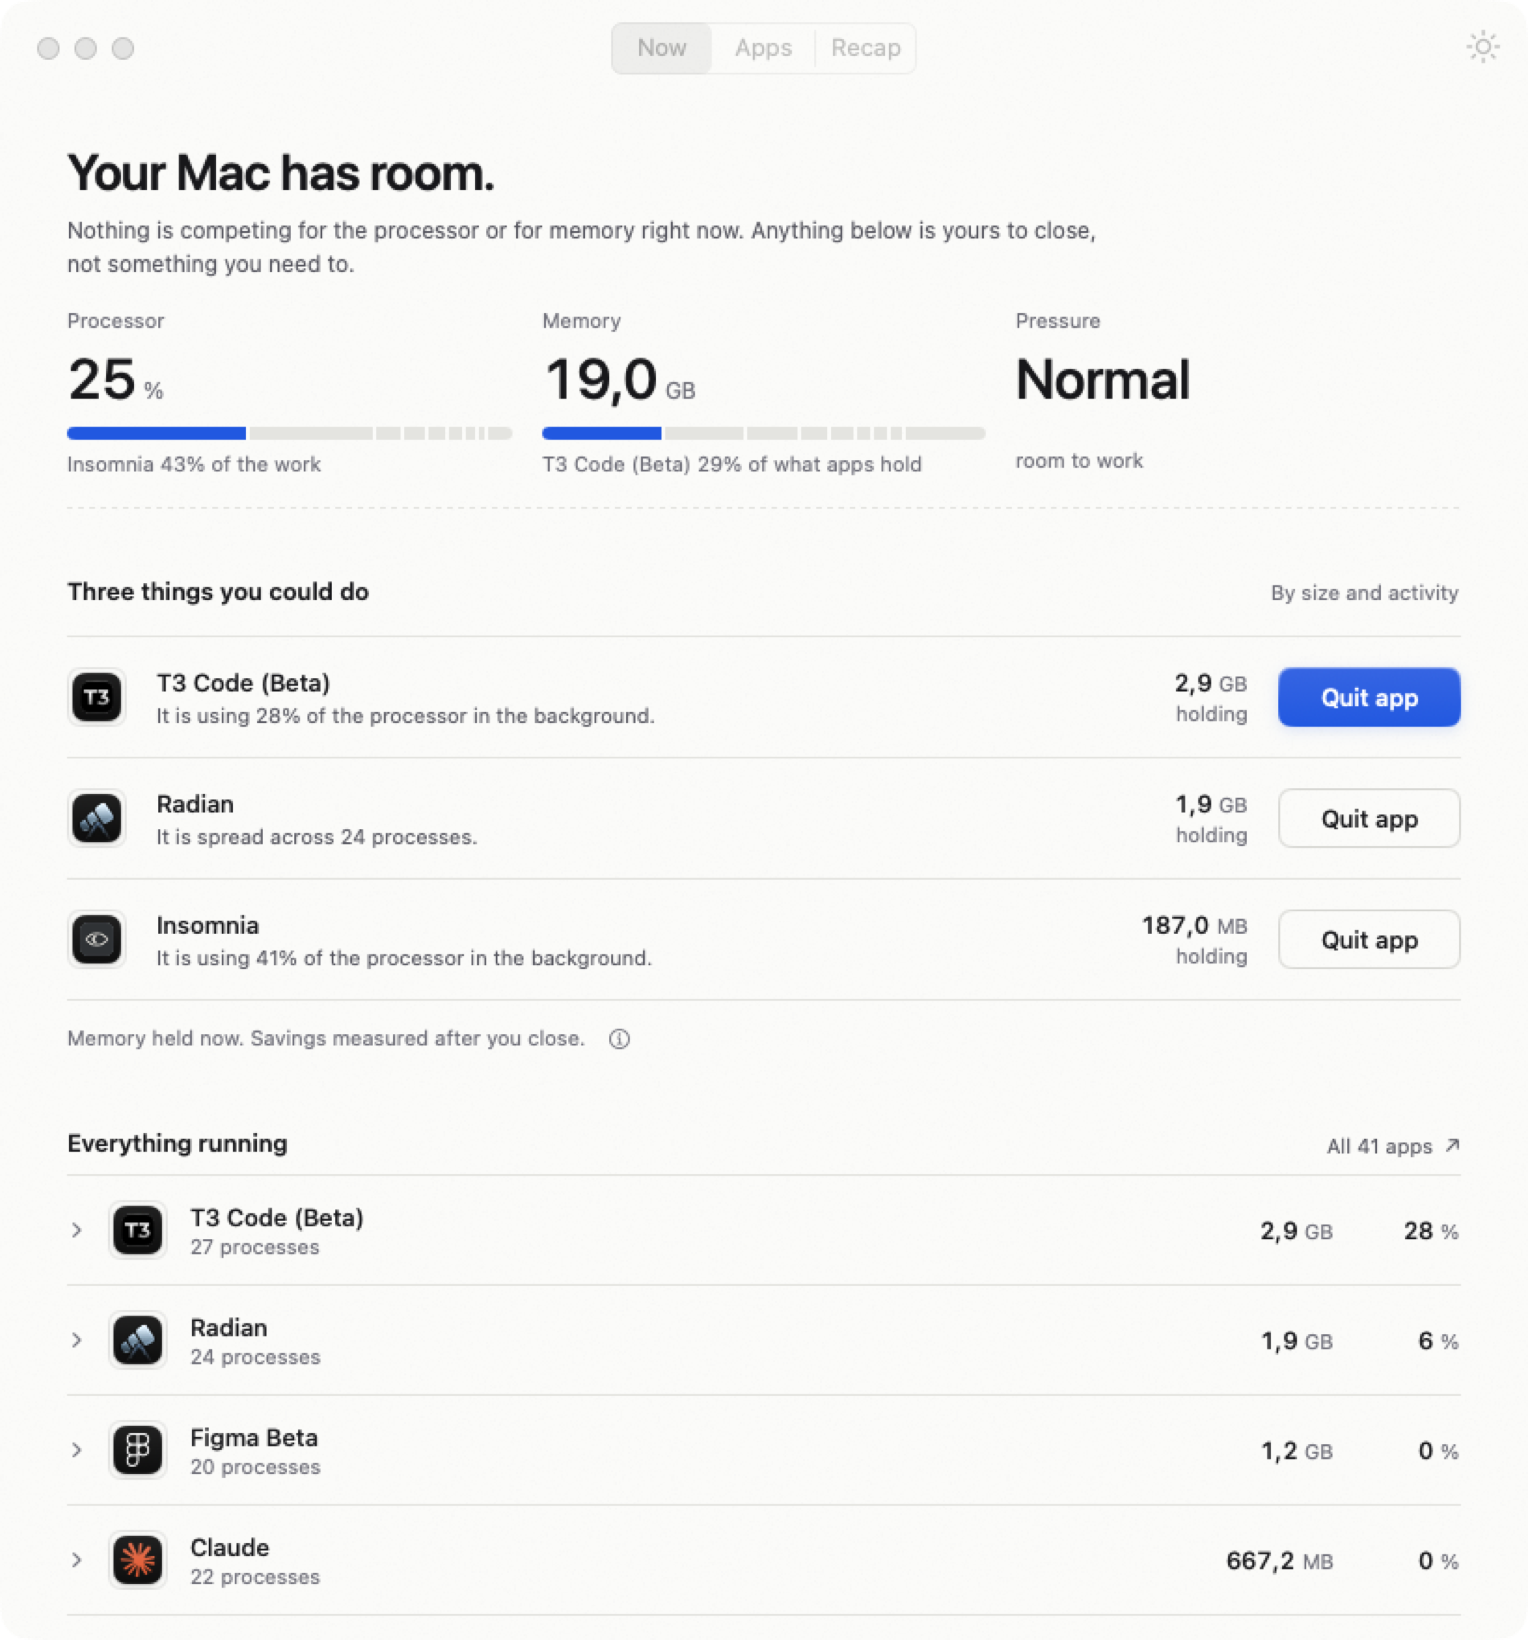
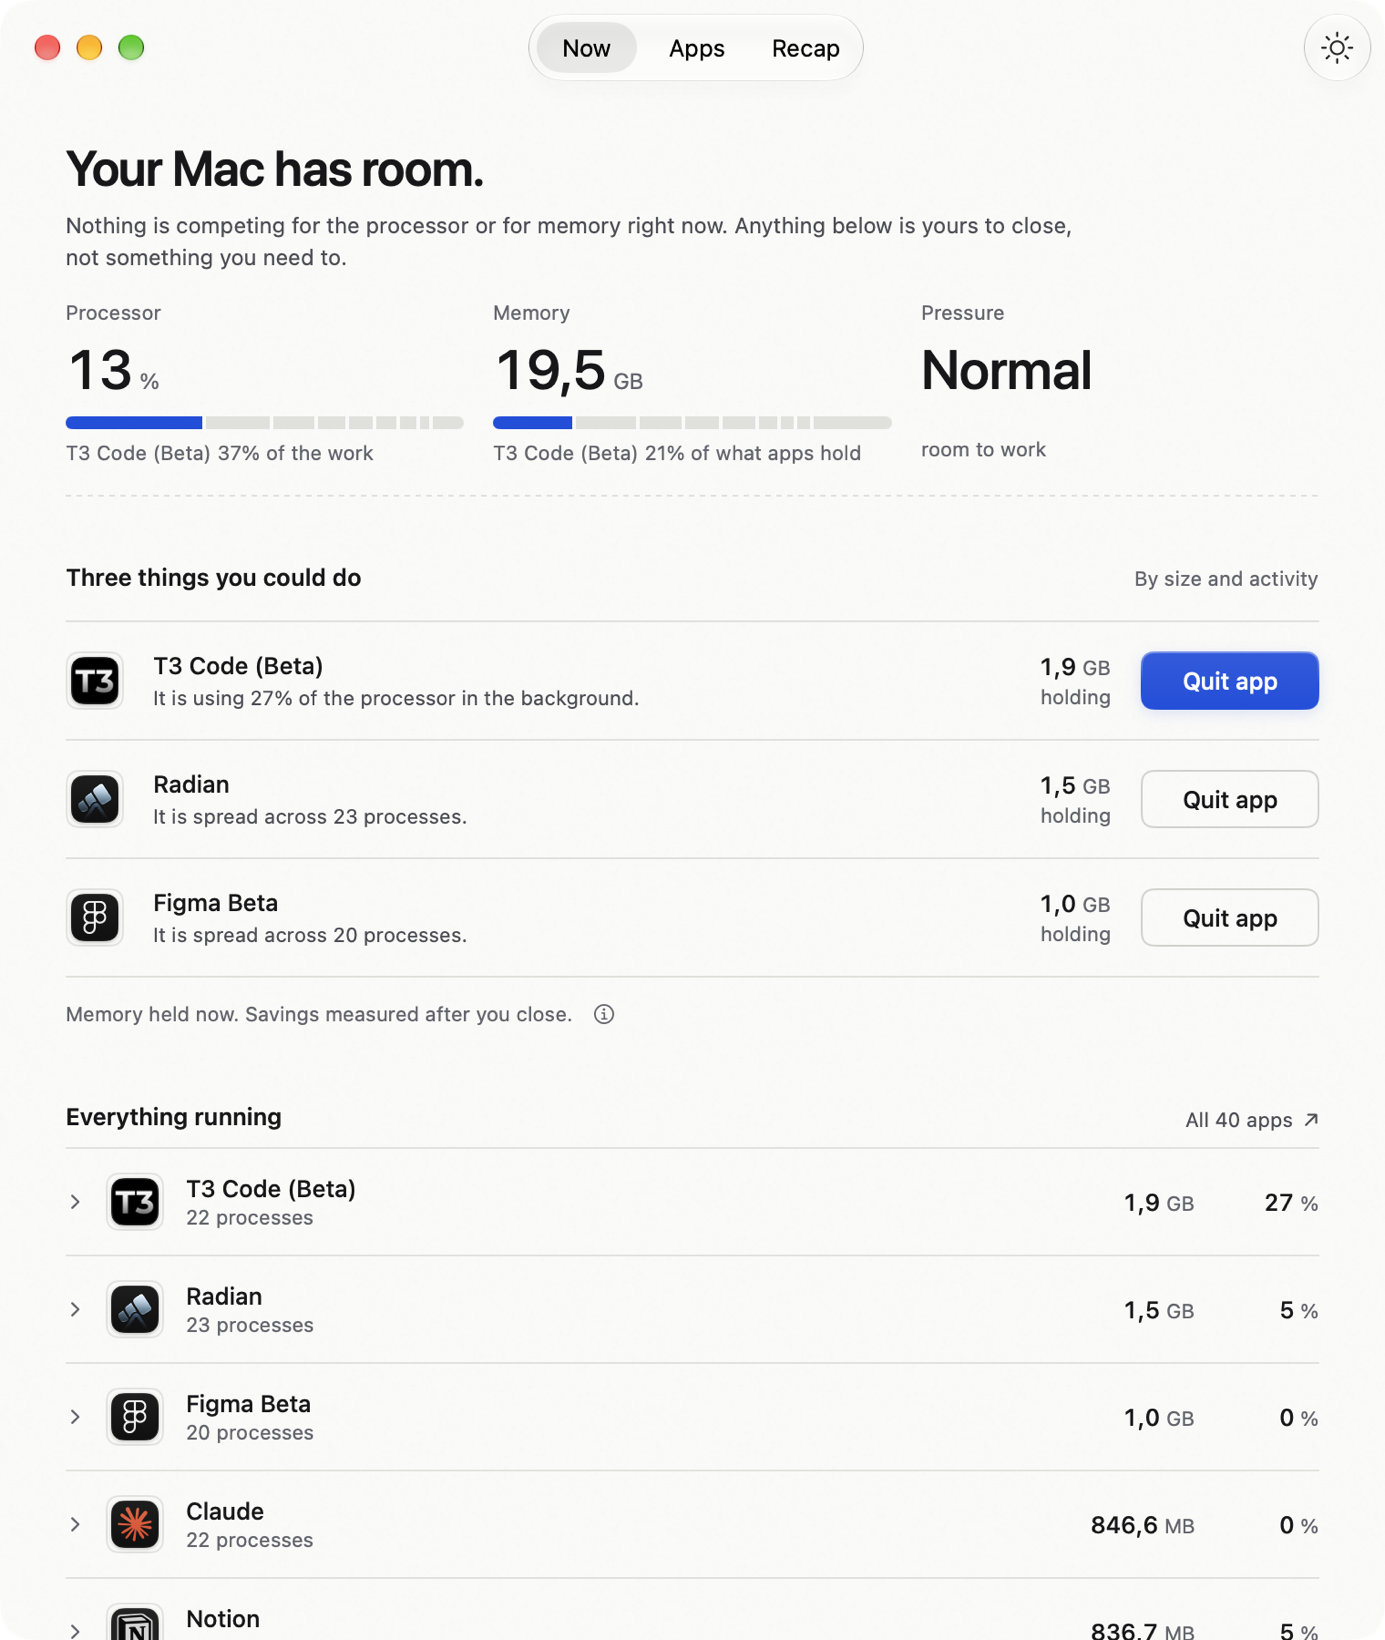
Stop the window restoring off-screen, and screenshot it awake
SwiftUI autosaves a window's frame under a key that embeds the view type's
memory address, so the key changes on every build. The preferences had
accumulated 54 dead frame entries, and the one restored was whichever build
wrote last - several of them taller than the display or positioned off the
bottom of it, which launches the app to a window nobody can see.

Set one stable autosave name and clamp the restored frame into the visible
frame of the screen it comes back on.

The README screenshots also caught the window unfocused, where the toolbar
segmented control draws flat and grey. Replaced with captures of the active
window, which is where macOS 26 draws it as Liquid Glass.

diff --git a/Sources/Headroom/HeadroomApp.swift b/Sources/Headroom/HeadroomApp.swift
@@ -162,6 +162,24 @@ private struct WindowChrome: NSViewRepresentable {
         window.contentMinSize = NSSize(width: Metrics.minimumWidth, height: Metrics.minimumHeight)
         NSWindow.allowsAutomaticWindowTabbing = false
 
+        // SwiftUI's own autosave key embeds the view type's memory address, so
+        // it changes on every build: the preferences fill up with dozens of
+        // dead frame entries and the restored one is whichever build happened
+        // to write last. One stable name instead.
+        window.setFrameAutosaveName("HeadroomWindow")
+
+        // A restored frame can be taller than the display it comes back on, or
+        // sit off the bottom of it, and then the app launches to a window
+        // nobody can see. Bring it back onto the screen it is on.
+        if let visible = (window.screen ?? NSScreen.main)?.visibleFrame {
+            var frame = window.frame
+            frame.size.width = min(frame.width, visible.width)
+            frame.size.height = min(frame.height, visible.height)
+            frame.origin.x = min(max(frame.minX, visible.minX), visible.maxX - frame.width)
+            frame.origin.y = min(max(frame.minY, visible.minY), visible.maxY - frame.height)
+            if frame != window.frame { window.setFrame(frame, display: true) }
+        }
+
         // Capture affordances, for photographing the design without a pointer.
         // `HEADROOM_WINDOW=820x1560` opens a window taller than anyone would
         // use, so a whole scrolling column fits in one frame;
